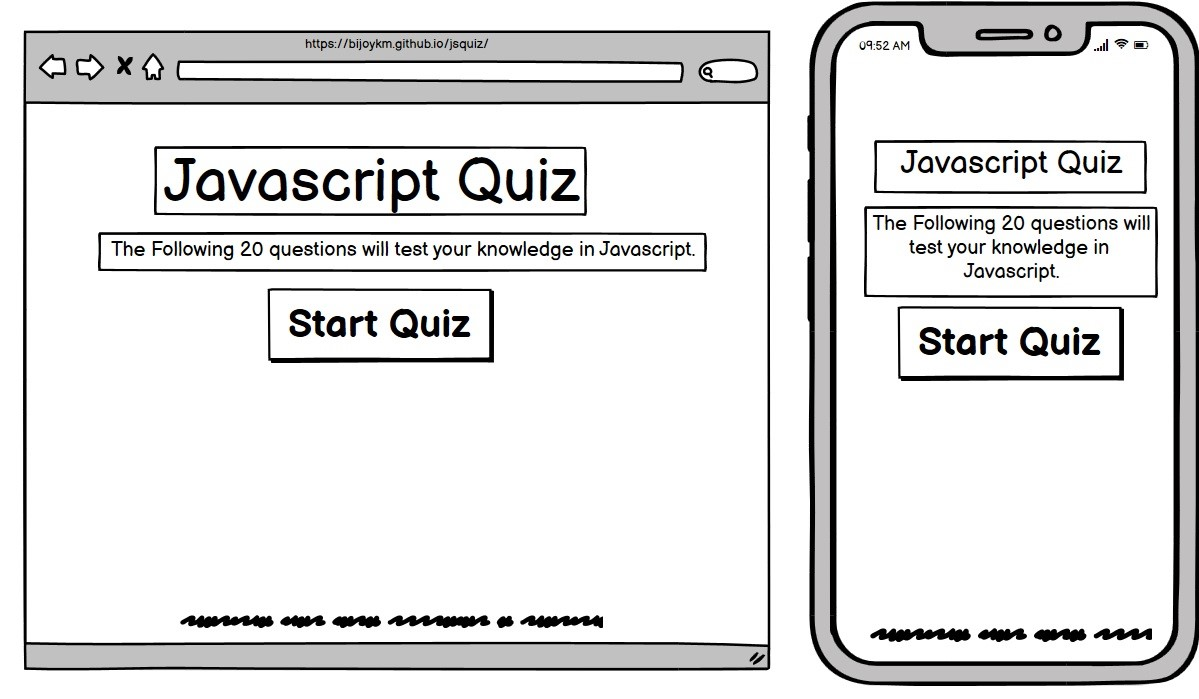
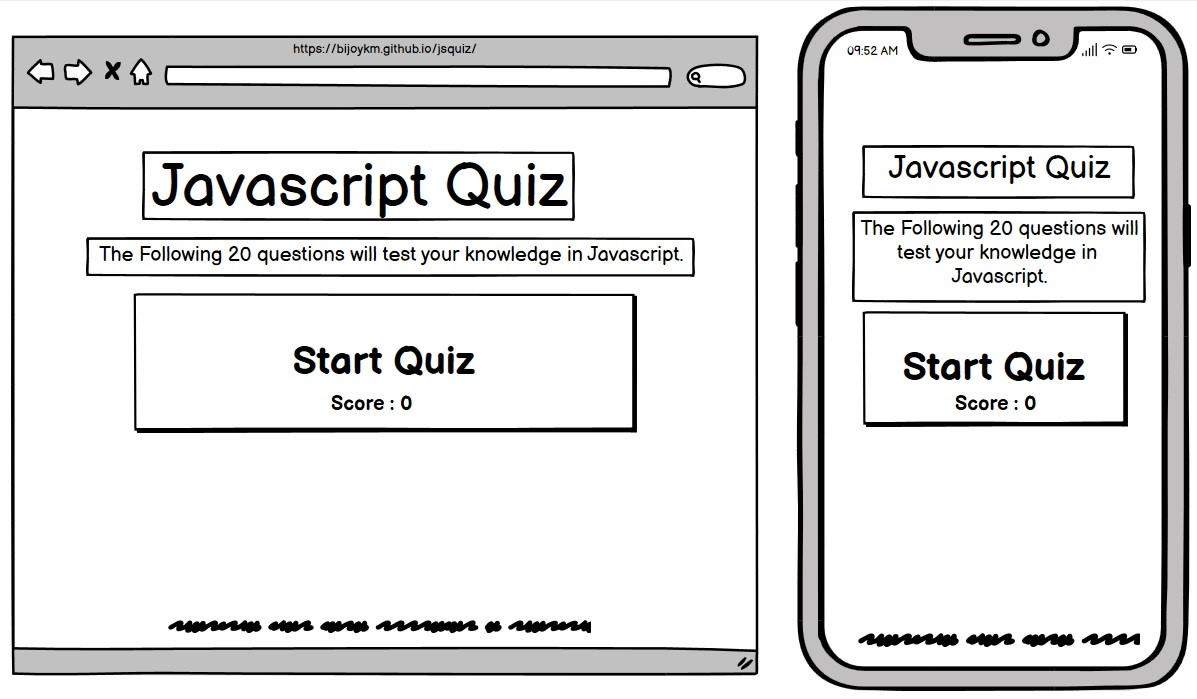
Update wireframe images according to changes made

Changed region(s): [[0.0, 0.0, 1.0, 0.9914], [0.0618, 0.2103, 0.5873, 0.6309]]

diff --git a/README.md b/README.md
@@ -39,7 +39,7 @@ The website can be viewed here. [Javascript Quiz](https://bijoykm.github.io/jsqu
 # 3. Structure
 * Users will find that the single page website with four navigation buttons, which is common to most quiz websites, is simply laid out with easy organisation of information.
 * These are the Start, Next, Exit and Restart buttons.
-* Each question has four options, when clicked on the correct option the background color of that answer button turns to green color(hsl(163, 90%, 23%)). All wrong answers buttons are turned to light red color hsl(0, 89%, 65%).
+* Each question has four options, when clicked on the correct option the background color of that answer button turns to green color(hsl(163, 90%, 23%)) and the Score value is incremented by 1. All wrong answers buttons are turned to light red color hsl(0, 89%, 65%).
 * The footer section provides information on the disclaimer notice.
 
 # 4. Skeleton
